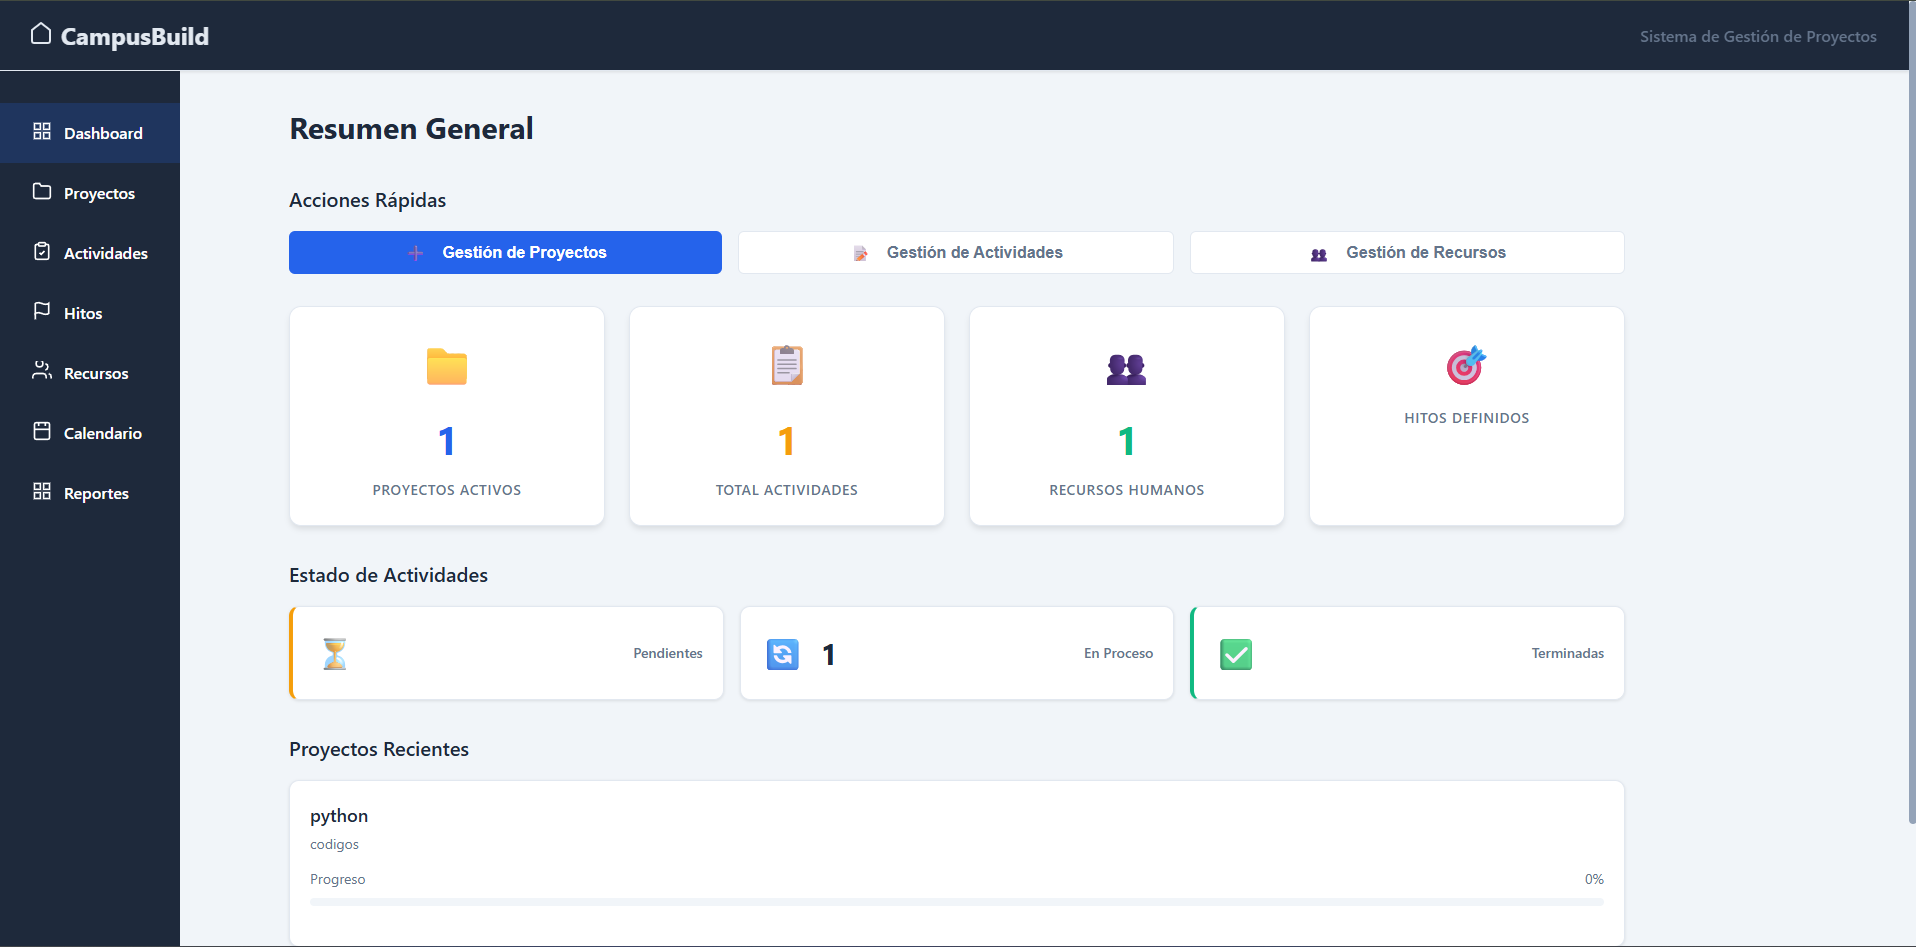
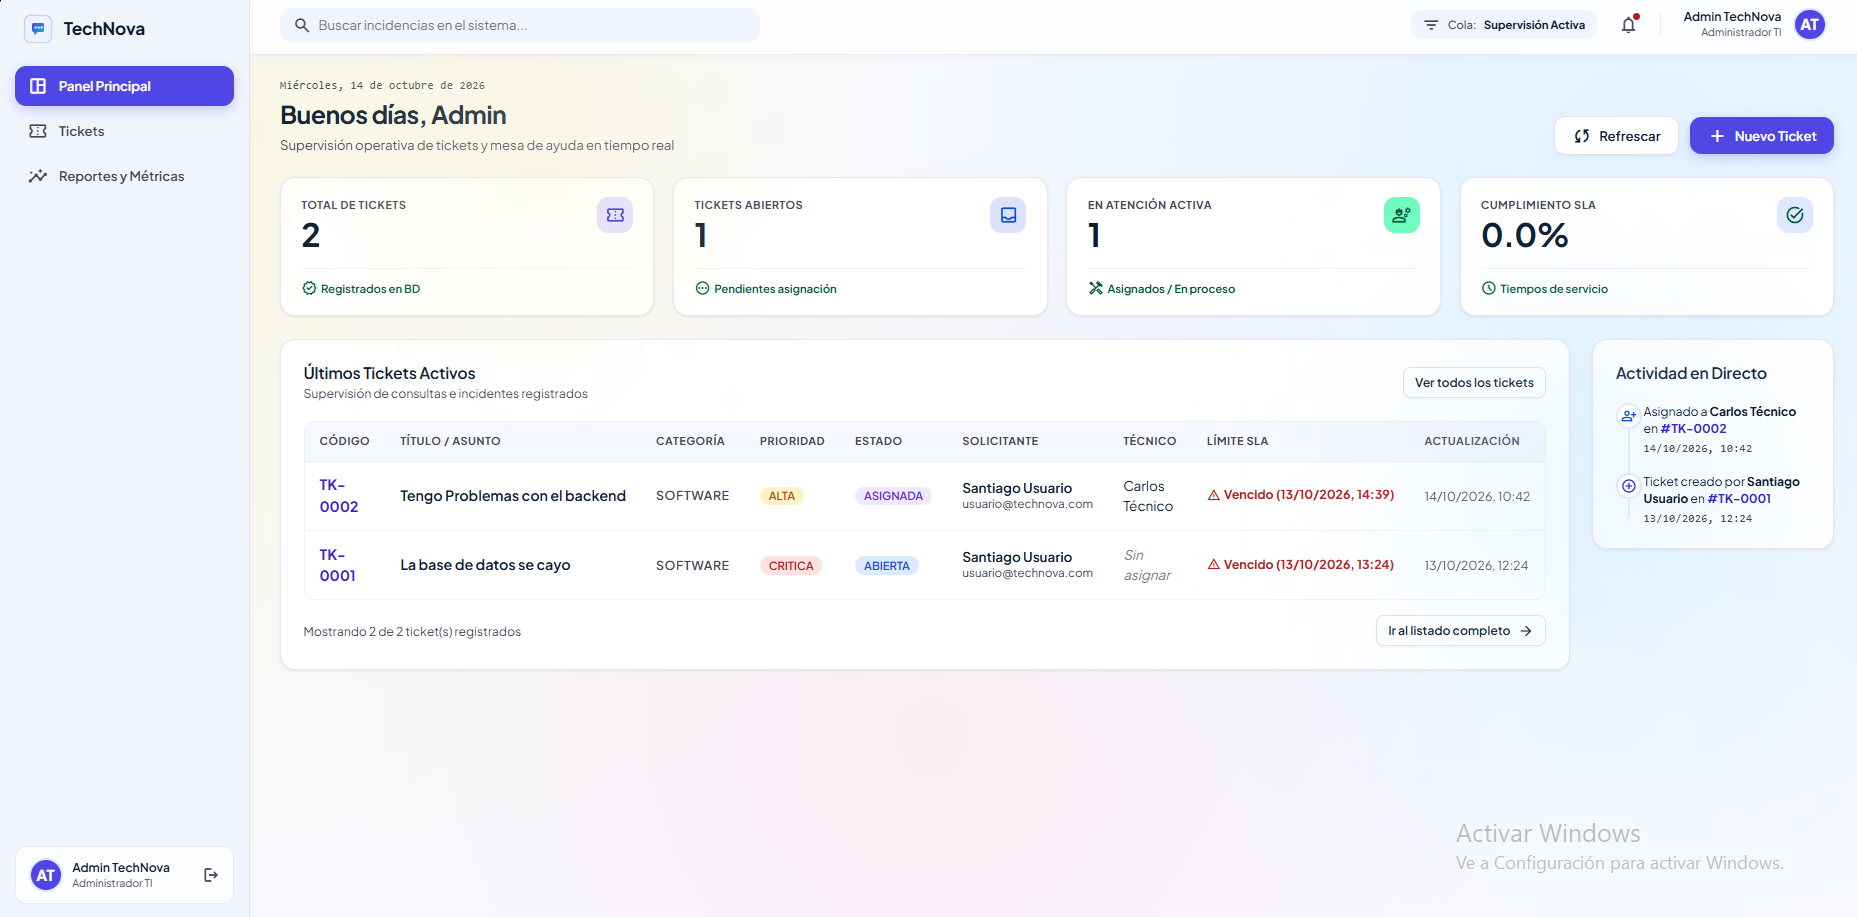
feat: Upload files

diff --git a/styles.css b/styles.css
@@ -96,12 +96,6 @@ button { cursor: none; }
     transform: translate(-50%, -50%) rotate(45deg);
 }
 
-@media (max-width: 768px) {
-    body { cursor: auto; }
-    button { cursor: pointer; }
-    .cursor, .cursor-follower { display: none; }
-}
-
 /* ============ NEON TEXT ============ */
 .neon-text {
     color: var(--primary);
@@ -960,7 +954,6 @@ button { cursor: none; }
     border-bottom: 1px solid var(--border);
 }
 
-/* Imágenes de proyectos */
 .project-img {
     width: 100%;
     height: 100%;
@@ -1422,40 +1415,6 @@ button { cursor: none; }
     transform: translateY(0);
 }
 
-/* ============ RESPONSIVE ============ */
-@media (max-width: 968px) {
-    .hero {
-        grid-template-columns: 1fr;
-        text-align: center;
-        padding: 7rem 1.5rem 3rem;
-    }
-    .hero-cta, .hero-stats { justify-content: center; }
-    .about-grid, .contact-grid { grid-template-columns: 1fr; }
-    .navbar { padding: 1rem 1.5rem; }
-    .status-indicator { display: none; }
-    .nav-menu {
-        position: fixed;
-        top: 70px; left: 0;
-        width: 100%;
-        background: var(--bg-2);
-        flex-direction: column;
-        padding: 2rem;
-        gap: 1.5rem;
-        transform: translateY(-150%);
-        transition: transform 0.3s;
-        border-bottom: 1px solid var(--border);
-    }
-    .nav-menu.active { transform: translateY(0); }
-    .menu-toggle { display: flex; }
-    .side-nav { display: none; }
-    .section { padding: 4rem 1.5rem; }
-    .profile-container { width: 280px; height: 280px; }
-    .profile-img { width: 220px; height: 220px; }
-    .floating-badge { width: 40px; height: 40px; font-size: 1rem; }
-    .tech-label { display: none; }
-    .footer-ascii pre { font-size: 0.55rem; }
-}
-
 /* Scrollbar */
 ::-webkit-scrollbar { width: 8px; }
 ::-webkit-scrollbar-track { background: var(--bg); }
@@ -1463,12 +1422,11 @@ button { cursor: none; }
     background: var(--primary); 
     box-shadow: 0 0 10px var(--primary);
 }
+
 /* ============================================================
-   NUEVOS ESTILOS: MISIÓN/VISIÓN, FORMACIÓN Y HOJA DE VIDA
-   (agregados al final — no modifican el diseño existente)
+   MISIÓN/VISIÓN, FORMACIÓN Y HOJA DE VIDA
    ============================================================ */
 
-/* ----- Misión y Visión ----- */
 .mision-vision {
     display: grid;
     grid-template-columns: 1fr 1fr;
@@ -1535,7 +1493,6 @@ button { cursor: none; }
     line-height: 1.65;
 }
 
-/* ----- Formación académica (timeline) ----- */
 .formacion { margin-top: 2.2rem; }
 
 .formacion-title {
@@ -1637,7 +1594,6 @@ button { cursor: none; }
     background: rgba(122, 122, 140, 0.08);
 }
 
-/* ----- Banner Hoja de Vida ----- */
 .cv-banner {
     display: flex;
     align-items: center;
@@ -1710,7 +1666,6 @@ button { cursor: none; }
     text-shadow: 0 0 10px rgba(0, 255, 136, 0.5);
 }
 
-/* ----- Modal del CV ----- */
 .cv-modal {
     position: fixed;
     inset: 0;
@@ -1793,8 +1748,177 @@ button { cursor: none; }
     background: #111;
 }
 
-/* ----- Responsive nuevos componentes ----- */
-@media (max-width: 768px) {
-    .mision-vision { grid-template-columns: 1fr; }
-    .cv-banner { flex-direction: column; align-items: flex-start; }
+/* ============================================================
+   AJUSTES RESPONSIVE COMPLETOS
+   ============================================================ */
+
+/* Laptop / Desktops medianas (<= 1024px) */
+@media (max-width: 1024px) {
+    .hero {
+        gap: 2rem;
+        padding: 7rem 2rem 4rem;
+    }
+    .about-grid {
+        gap: 2.5rem;
+    }
+    .profile-container {
+        width: 320px;
+        height: 320px;
+    }
+    .profile-img {
+        width: 250px;
+        height: 250px;
+    }
+    .tech-label {
+        font-size: 0.65rem;
+    }
+}
+
+/* Tablets (<= 968px) */
+@media (max-width: 968px) {
+    body { cursor: auto; }
+    button { cursor: pointer; }
+    .cursor, .cursor-follower { display: none; }
+
+    .hero {
+        grid-template-columns: 1fr;
+        text-align: center;
+        padding: 7rem 1.5rem 3rem;
+    }
+    .hero-content {
+        display: flex;
+        flex-direction: column;
+        align-items: center;
+    }
+    .hero-description {
+        max-width: 100%;
+    }
+    .hero-cta, .hero-stats { 
+        justify-content: center; 
+        width: 100%;
+    }
+    .about-grid, .contact-grid { 
+        grid-template-columns: 1fr; 
+    }
+    .navbar { 
+        padding: 1rem 1.5rem; 
+    }
+    .status-indicator { 
+        display: none; 
+    }
+    .nav-menu {
+        position: fixed;
+        top: 70px; left: 0;
+        width: 100%;
+        background: var(--bg-2);
+        flex-direction: column;
+        padding: 2rem;
+        gap: 1.5rem;
+        transform: translateY(-150%);
+        transition: transform 0.3s;
+        border-bottom: 1px solid var(--border);
+    }
+    .nav-menu.active { 
+        transform: translateY(0); 
+    }
+    .menu-toggle { 
+        display: flex; 
+    }
+    .side-nav { 
+        display: none; 
+    }
+    .section { 
+        padding: 4rem 1.5rem; 
+    }
+    .profile-container { 
+        width: 280px; 
+        height: 280px; 
+    }
+    .profile-img { 
+        width: 220px; 
+        height: 220px; 
+    }
+    .floating-badge { 
+        width: 40px; 
+        height: 40px; 
+        font-size: 1rem; 
+    }
+    .tech-label { 
+        display: none; 
+    }
+    .footer-ascii pre { 
+        font-size: 0.55rem; 
+    }
+    .mision-vision { 
+        grid-template-columns: 1fr; 
+    }
+    .cv-banner { 
+        flex-direction: column; 
+        align-items: flex-start; 
+    }
+    .cv-actions {
+        width: 100%;
+        justify-content: space-between;
+    }
+}
+
+/* Pantallas móviles medianas (<= 600px) */
+@media (max-width: 600px) {
+    .section-title {
+        font-size: 1.8rem;
+    }
+    .info-cards {
+        grid-template-columns: 1fr;
+    }
+    .projects-grid {
+        grid-template-columns: 1fr;
+    }
+    .hero-stats {
+        flex-wrap: wrap;
+        gap: 1.5rem;
+    }
+    .btn {
+        width: 100%;
+        justify-content: center;
+    }
+    .terminal-body {
+        font-size: 0.8rem;
+        padding: 1rem;
+    }
+    .code-content {
+        font-size: 0.75rem;
+        padding: 1rem;
+    }
+    .cv-actions {
+        flex-direction: column;
+        align-items: stretch;
+        gap: 0.8rem;
+    }
+    .cv-download {
+        text-align: center;
+    }
+}
+
+/* Teléfonos pequeños (<= 400px) */
+@media (max-width: 400px) {
+    .navbar {
+        padding: 0.8rem 1rem;
+    }
+    .hero {
+        padding-top: 6rem;
+    }
+    .hero-title {
+        font-size: 2rem;
+    }
+    .profile-container {
+        width: 230px;
+        height: 230px;
+    }
+    .profile-img {
+        width: 180px;
+        height: 180px;
+    }
+    .contact-card {
+        padding: 1rem;
+    }
 }

diff --git a/index.html b/index.html
@@ -33,7 +33,7 @@
             githubProyectos: {
                 "#001": "https://github.com/BrayanFonseca2911/Proyecto-java-RapidExpress",   // 👉 Pega aquí el repo del proyecto mySQL (Flujo Reportes)
                 "#002": "https://github.com/BrayanFonseca2911/Proyecto-mySQL-Coworking-",   // 👉 Pega aquí el repo del proyecto CampusBuild
-                "#003": "https://github.com/BrayanFonseca2911/Proyecto_Campusbuild"    // 👉 Pega aquí el repo del proyecto Music Stream
+                "#003": "https://github.com/BrayanFonseca2911/Examen-Springboot"    // 👉 Pega aquí el repo del proyecto Music Stream
             }
         };
     </script>
@@ -481,14 +481,10 @@ programados y 20 procedimientos almacenados.</p>
             </div>
             <div class="project-content">
                 <span class="project-category">Optimizar</span>
-                <h3>CampusBuild</h3>
-                <p>Desarrollo una pagina web de actividades que optimiza los procesos
-                y mejoras de la coordinación de los equipos de trabajo.
-                CampusBuild, una aplicacion que propone desarrollar una
-                aplicación personalizada que le permita llevar el control de sus
-                proyectos en todas las etapas de construcción.</p>
+                <h3>CampusDesk</h3>
+                <p>Plataforma web centralizada orientada a la optimización y formalización del soporte técnico empresarial. Desarrollé el flujo operativo completo erradicando la fragmentación de incidentes mediante una máquina de estados finitos, gestión estricta de SLA según prioridades, auditoría integral y tableros de analítica para la toma de decisiones basada en métricas clave.</p>
                 <div class="project-tech">
-                    <span>JavaScript</span><span>HTML</span><span>CSS</span><span>VSC</span>
+                    <span>JavaScript</span><span>HTML</span><span>CSS</span><span>Spring Boot</span><span>Java</span>
                 </div>
             </div>
         </article>
